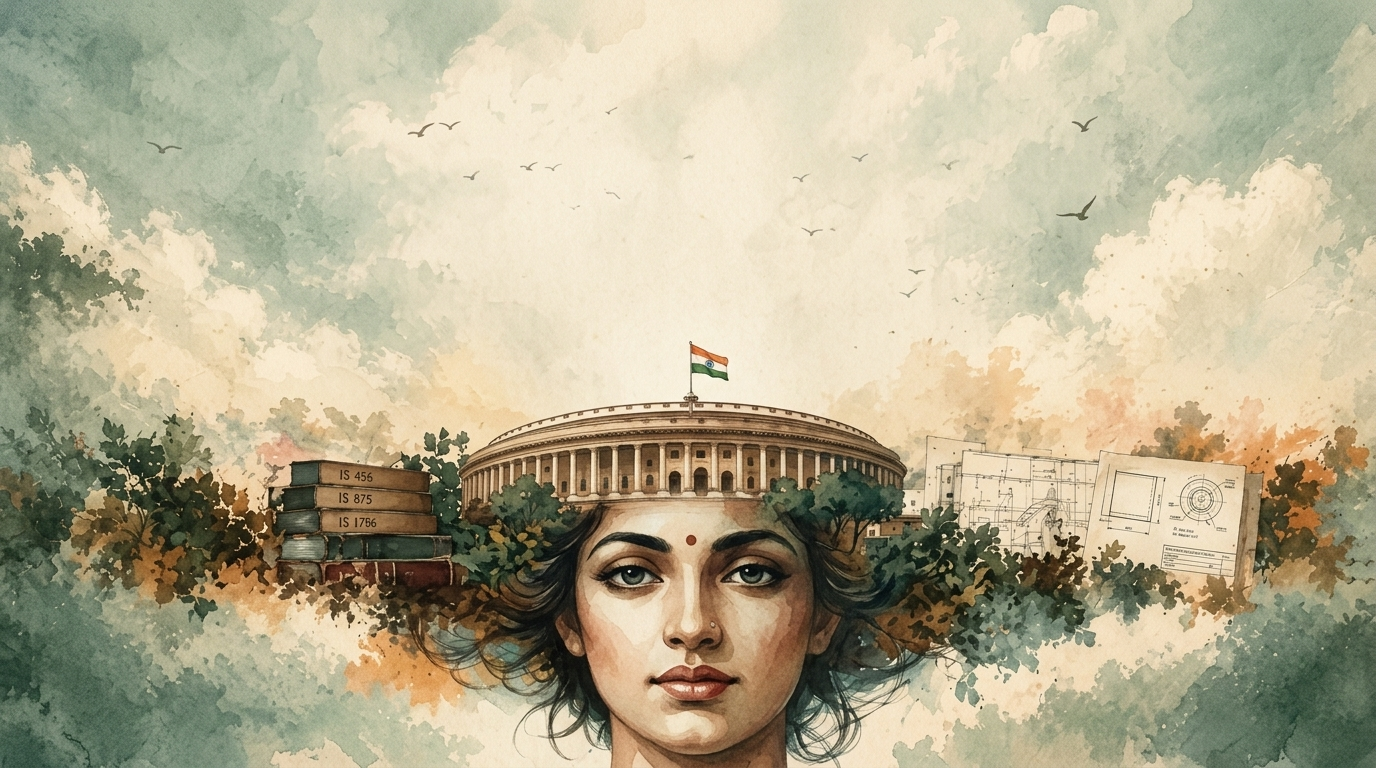
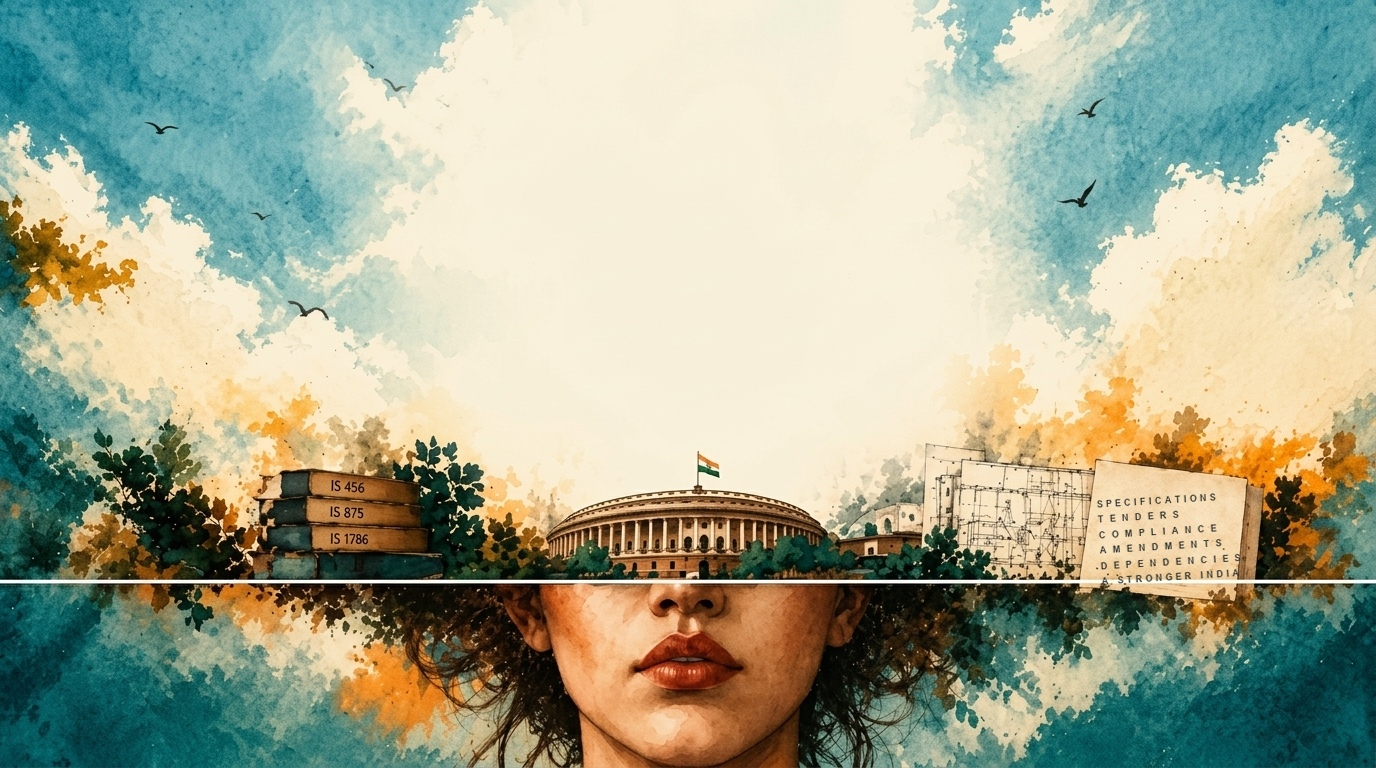
fix(hero): match reference layout, crisp illustration without fog, 2-row categories, and two-tone headline

diff --git a/apps/frontend/src/components/home/HeroSection.tsx b/apps/frontend/src/components/home/HeroSection.tsx
@@ -37,36 +37,20 @@ export const HeroSection: React.FC<HeroSectionProps> = ({ onNavigate, onOpenGuid
       className="relative w-full overflow-x-hidden bg-[#FAF6EE] select-none border-b border-[#8C8275]/25"
       style={{ height: '100svh', minHeight: '700px', maxHeight: '1100px' }}
     >
-      {/* 1. Full-Screen Visual Artwork Background — shifted down seamlessly with dual-layer watercolor blend */}
-      <div className="absolute inset-0 pointer-events-none z-0 overflow-hidden">
-        {/* Base Atmospheric Sky Layer (fills 0 to 100% with continuous watercolor sky) */}
-        <div
-          className="absolute inset-0 bg-cover bg-[center_top] bg-no-repeat"
-          style={{ backgroundImage: `url('/hero_editorial_canvas.jpg')` }}
-        />
-        {/* Main Composition Artwork Layer (shifted down ~135px so Parliament, books & portrait occupy lower-middle & bottom) */}
-        <div
-          className="absolute inset-0 bg-cover bg-[center_top] bg-no-repeat"
-          style={{
-            backgroundImage: `url('/hero_editorial_canvas.jpg')`,
-            top: 'clamp(80px, 14.5svh, 150px)',
-            height: '100%',
-            WebkitMaskImage: 'linear-gradient(to bottom, transparent 0px, black 65px, black 100%)',
-            maskImage: 'linear-gradient(to bottom, transparent 0px, black 65px, black 100%)',
-          }}
-        />
-      </div>
+      {/* 1. Full-Screen Visual Artwork Background — exact reference canvas: crisp, high contrast, fully opaque */}
+      <div
+        className="absolute inset-0 pointer-events-none z-0"
+        style={{
+          backgroundImage: `url('/hero_editorial_canvas.jpg')`,
+          backgroundSize: 'cover',
+          backgroundPosition: 'center 46%',
+          backgroundRepeat: 'no-repeat',
+        }}
+      />
 
-      {/* 2. Natural Paper Texture & Fine Grain Overlay */}
-      <div className="absolute inset-0 bg-[radial-gradient(#8C8275_0.65px,transparent_0.65px)] [background-size:24px_24px] opacity-10 pointer-events-none z-0" />
-
-      {/* 3. Subtle Edge Watercolor Vignette Blend */}
-      <div className="absolute inset-x-0 top-0 h-16 bg-gradient-to-b from-[#EAE4D8]/35 to-transparent pointer-events-none z-0" />
-      <div className="absolute inset-x-0 bottom-0 h-24 bg-gradient-to-t from-[#FAF6EE]/75 via-[#FAF6EE]/20 to-transparent pointer-events-none z-0" />
-
-      {/* Left Flanking Editorial Metadata — positioned on section, ~40% from top */}
-      <div className="absolute left-6 lg:left-12 top-[40%] -translate-y-1/2 hidden xl:block z-20 pointer-events-none">
-        <div className="border-l border-[#8C8275]/45 pl-3 text-[9.5px] tracking-[0.24em] text-[#525B53] font-serif leading-loose uppercase font-medium">
+      {/* Left Flanking Editorial Metadata — solid, fully legible, not translucent */}
+      <div className="absolute left-6 lg:left-12 top-[44%] -translate-y-1/2 hidden xl:block z-20 pointer-events-none">
+        <div className="border-l-2 border-[#1E2320] pl-3 text-[10.5px] tracking-[0.24em] text-[#1E2320] font-serif leading-loose uppercase font-bold">
           <div>{t('pillar_accurate', 'ACCURATE')}</div>
           <div>{t('pillar_compliant', 'COMPLIANT')}</div>
           <div>{t('pillar_transparent', 'TRANSPARENT')}</div>
@@ -74,27 +58,27 @@ export const HeroSection: React.FC<HeroSectionProps> = ({ onNavigate, onOpenGuid
         </div>
       </div>
 
-      {/* Right Flanking Editorial Metadata */}
-      <div className="absolute right-6 lg:right-12 top-[40%] -translate-y-1/2 hidden xl:block z-20 text-right pointer-events-none">
-        <div className="border-r border-[#8C8275]/45 pr-3 text-[9.5px] tracking-[0.24em] text-[#525B53] font-serif leading-loose uppercase font-medium">
-          <div>GFR 144(I)</div>
+      {/* Right Flanking Editorial Metadata — solid, fully legible, not translucent */}
+      <div className="absolute right-6 lg:right-12 top-[44%] -translate-y-1/2 hidden xl:block z-20 text-right pointer-events-none">
+        <div className="border-r-2 border-[#1E2320] pr-3 text-[10.5px] tracking-[0.24em] text-[#1E2320] font-serif leading-loose uppercase font-bold">
+          <div>GFR 144(1)</div>
           <div>BIS ACT 2016</div>
           <div>DPIIT QCOS</div>
           <div>CVC / CAG</div>
         </div>
       </div>
 
-      {/* Bottom Left Corner Signature — positioned on section */}
-      <div className="absolute bottom-4 left-6 lg:left-12 z-20 pointer-events-none hidden sm:block">
-        <div className="border-l border-[#8C8275]/45 pl-3 text-[9.5px] md:text-[10px] tracking-[0.24em] text-[#525B53] font-serif leading-relaxed uppercase font-medium">
-          <div>{t('sub_gov', 'BUILT FOR GOVERNMENT AND PSUS')}</div>
+      {/* Bottom Left Corner Signature — solid, legible small caps with divider pipe */}
+      <div className="absolute bottom-5 left-6 lg:left-12 z-20 pointer-events-none hidden sm:block">
+        <div className="text-[11px] tracking-[0.24em] text-[#FAF6EE] font-serif leading-relaxed uppercase font-bold drop-shadow-[0_1px_2px_rgba(0,0,0,0.85)]">
+          | {t('sub_gov', 'BUILT FOR GOVERNMENT AND PSUS')}
         </div>
       </div>
 
-      {/* Bottom Right Corner Signature — positioned on section */}
-      <div className="absolute bottom-4 right-6 lg:right-12 z-20 pointer-events-none hidden sm:block">
-        <div className="border-r border-[#8C8275]/45 pr-3 text-[9.5px] md:text-[10px] tracking-[0.24em] text-[#525B53] font-serif leading-relaxed uppercase font-medium text-right">
-          <div>{t('sub_bis', 'POWERED BY INDIAN STANDARDS')}</div>
+      {/* Bottom Right Corner Signature — solid, legible small caps with divider pipe */}
+      <div className="absolute bottom-5 right-6 lg:right-12 z-20 pointer-events-none hidden sm:block">
+        <div className="text-[11px] tracking-[0.24em] text-[#FAF6EE] font-serif leading-relaxed uppercase font-bold text-right drop-shadow-[0_1px_2px_rgba(0,0,0,0.85)]">
+          {t('sub_bis', 'POWERED BY INDIAN STANDARDS')} |
         </div>
       </div>
 
@@ -107,42 +91,42 @@ export const HeroSection: React.FC<HeroSectionProps> = ({ onNavigate, onOpenGuid
             onClick={() => onNavigate('home')}
             className="cursor-pointer flex items-center gap-0.5 tracking-tight group"
           >
-            <span className="text-xl sm:text-2xl lg:text-[1.8rem] font-serif font-semibold text-[#181D1A] group-hover:text-[#2C6E80] transition-colors">
-              NORM<span className="text-[#2C6E80] font-serif font-semibold">VAULT</span>
+            <span className="text-xl sm:text-2xl lg:text-[1.8rem] font-serif font-semibold text-[#181D1A] group-hover:text-[#1B6A78] transition-colors">
+              NORM<span className="text-[#1B6A78] font-serif font-semibold">VAULT</span>
             </span>
           </div>
         </div>
 
         {/* Center Nav Links (Desktop) */}
-        <nav className="hidden md:flex items-center space-x-6 lg:space-x-8 text-[13px] font-serif text-[#3D453E] tracking-normal">
+        <nav className="hidden md:flex items-center space-x-6 lg:space-x-8 text-[13.5px] font-serif text-[#2B332D] tracking-normal">
           <button
             onClick={() => onNavigate('home')}
-            className="text-[#181D1A] font-medium border-b border-[#181D1A] pb-0.5 transition-colors cursor-pointer"
+            className="text-[#141916] font-semibold border-b-2 border-[#141916] pb-0.5 transition-colors cursor-pointer"
           >
             {t('nav_home', 'Home')}
           </button>
           <button
             onClick={() => onNavigate('standards')}
-            className="hover:text-[#181D1A] transition-colors cursor-pointer"
+            className="hover:text-[#141916] transition-colors cursor-pointer"
           >
             {t('nav_standards', 'Standards')}
           </button>
           <button
             onClick={() => onNavigate('analyze')}
-            className="hover:text-[#181D1A] transition-colors cursor-pointer"
+            className="hover:text-[#141916] transition-colors cursor-pointer"
           >
             {t('nav_workspace', 'Workspace')}
           </button>
           <button
             onClick={() => onNavigate('dashboard')}
-            className="hover:text-[#181D1A] transition-colors cursor-pointer"
+            className="hover:text-[#141916] transition-colors cursor-pointer"
           >
             {t('nav_dashboard', 'Dashboard')}
           </button>
           {onOpenGuide && (
             <button
               onClick={onOpenGuide}
-              className="text-[#2C6E80] font-medium hover:text-[#181D1A] transition-colors cursor-pointer flex items-center gap-1.5"
+              className="text-[#1B6A78] font-semibold hover:text-[#141916] transition-colors cursor-pointer flex items-center gap-1.5"
             >
               <Compass size={13} />
               <span>{t('nav_user_guide', 'User Guide')}</span>
@@ -152,8 +136,8 @@ export const HeroSection: React.FC<HeroSectionProps> = ({ onNavigate, onOpenGuid
 
         {/* Top Right Header Text & Mobile Menu Button */}
         <div className="flex items-center gap-3">
-          <div className="hidden sm:block text-right text-[9.5px] md:text-[10px] tracking-[0.24em] text-[#4E564F] uppercase font-serif font-medium leading-tight">
-            <div>{t('brand_tagline', 'STANDARDS FOR A STRONGER INDIA')}</div>
+          <div className="hidden sm:block text-right text-[10.5px] md:text-[11px] tracking-[0.22em] text-[#141916] uppercase font-serif font-bold leading-tight">
+            | {t('brand_tagline', 'STANDARDS FOR A STRONGER INDIA')}
           </div>
 
           <button
@@ -233,30 +217,35 @@ export const HeroSection: React.FC<HeroSectionProps> = ({ onNavigate, onOpenGuid
         </div>
       )}
 
-      {/* Center Editorial Hero Content — positioned high, NOT vertically centered */}
-      <div className="relative z-10 flex flex-col items-center w-full px-4 sm:px-6 lg:px-12 mt-[2vh] sm:mt-[3vh] lg:mt-[2.5vh]">
+      {/* Center Editorial Hero Content — positioned in calm upper-middle sky */}
+      <div className="relative z-10 flex flex-col items-center w-full px-4 sm:px-6 lg:px-12 mt-[2.5vh] sm:mt-[3.5vh] lg:mt-[4vh]">
         <div className="text-center max-w-3xl mx-auto flex flex-col items-center w-full">
           {/* Eyebrow */}
-          <div className="text-[10px] sm:text-[11px] md:text-[12px] font-serif tracking-[0.26em] text-[#4D564E] uppercase mb-2 sm:mb-2.5 font-medium">
+          <div className="text-[10.5px] sm:text-[11px] md:text-[11.5px] font-serif tracking-[0.24em] text-[#1E2320] uppercase mb-2 sm:mb-2.5 font-bold">
             {t('hero_kicker', 'INDIAN STANDARDS. SMARTER PROCUREMENT.')}
           </div>
 
-          {/* Main Headline — slightly smaller than before to match reference proportions */}
-          <h1 className="text-[1.75rem] sm:text-[2.6rem] lg:text-[3.2rem] font-serif font-normal text-[#141916] tracking-tight leading-[1.12] sm:leading-[1.08] mb-3 sm:mb-3.5 max-w-2xl">
-            {t('hero_title', 'From Specifications to the Right Standards.')}
+          {/* Main Headline — split across exactly two lines */}
+          <h1 className="text-[2.2rem] sm:text-[2.9rem] lg:text-[3.5rem] font-serif font-medium tracking-tight leading-[1.08] mb-3 max-w-3xl">
+            <span className="block text-[#141A17]">
+              {t('hero_title_line1', 'From Specifications to the')}
+            </span>
+            <span className="block text-[#1B6A78]">
+              {t('hero_title_line2', 'Right Standards.')}
+            </span>
           </h1>
 
-          {/* Supporting Copy — compact */}
-          <p className="text-[11px] sm:text-[13px] md:text-[14px] text-[#3D453E] leading-[1.6] max-w-[650px] font-serif font-normal text-center mb-4 sm:mb-5">
+          {/* Supporting Copy — tight spacing, centered, max-width so it wraps in 2 lines */}
+          <p className="text-[12.5px] sm:text-[14px] text-[#222824] leading-[1.55] max-w-[640px] font-serif font-normal text-center mb-3.5 sm:mb-4">
             {t('hero_desc', 'An AI-powered recommendation engine that helps government departments and PSUs identify applicable Indian Standards for accurate, compliant and future-ready procurement specifications.')}
           </p>
 
           {/* Search & Category — the primary interactive element per the reference */}
-          <div className="w-full max-w-[760px] z-30 px-2 sm:px-0">
+          <div className="w-full max-w-[860px] z-30 px-2 sm:px-0">
             {/* Search Bar */}
             <form
               onSubmit={handleHeroSearch}
-              className="max-w-[640px] mx-auto relative flex items-center bg-white/90 hover:bg-white border border-[#8C8275]/40 hover:border-[#2C6E80] focus-within:border-[#2C6E80] focus-within:ring-2 focus-within:ring-[#2C6E80]/20 rounded-full shadow-sm transition-all duration-200 overflow-hidden"
+              className="max-w-[640px] mx-auto relative flex items-center bg-white border border-[#7D766A]/70 hover:border-[#1B6A78] focus-within:border-[#1B6A78] focus-within:ring-2 focus-within:ring-[#1B6A78]/25 rounded-full shadow-[0_2px_8px_rgba(0,0,0,0.06)] transition-all duration-200 overflow-hidden"
             >
               <div className="pl-4 pr-2 text-[#4A544C]">
                 <Search size={15} />
@@ -266,71 +255,78 @@ export const HeroSection: React.FC<HeroSectionProps> = ({ onNavigate, onOpenGuid
                 value={heroSearchQuery}
                 onChange={(e) => setHeroSearchQuery(e.target.value)}
                 placeholder={t('hero_search_placeholder', 'Search standard, equipment, or clause (e.g. IS 12615, 3-Phase Motor)...')}
-                className="w-full py-2 sm:py-2.5 text-xs text-[#181D1A] placeholder-[#666D64]/75 bg-transparent focus:outline-none font-sans"
+                className="w-full py-2 sm:py-2.5 text-xs text-[#141916] placeholder-[#666D64] bg-transparent focus:outline-none font-sans"
               />
               <button
                 type="submit"
-                className="mr-1.5 px-3.5 py-1.5 rounded-full bg-[#18201B] hover:bg-[#2C6E80] text-[#FAF7F0] text-[11px] font-sans font-medium transition-colors flex items-center gap-1 cursor-pointer shrink-0"
+                className="mr-1.5 px-4 py-1.5 rounded-full bg-[#141916] hover:bg-[#1B6A78] text-[#FAF7F0] text-[11px] font-sans font-medium transition-colors flex items-center gap-1 cursor-pointer shrink-0"
               >
                 <span>{t('hero_search_btn', 'Search')}</span>
                 <ArrowRight size={12} />
               </button>
             </form>
 
-            {/* Category Chips — compact, 2 rows max */}
-            <div className="flex items-center justify-center gap-1.5 flex-wrap mt-2 sm:mt-2.5 text-xs font-sans">
-              <span className="text-[9px] sm:text-[10px] text-[#555C54] uppercase font-semibold tracking-wider mr-0.5 shrink-0 font-mono">
-                {t('categories_label', 'CATEGORIES:')}
-              </span>
-              <button
-                onClick={() => handleChipClick('ETD')}
-                className="px-2 py-0.5 sm:px-2.5 sm:py-0.5 rounded-full bg-[#E5F0F2]/90 hover:bg-[#E5F0F2] text-[#2C6E80] hover:text-[#18201B] border border-[#2C6E80]/35 transition-all cursor-pointer whitespace-nowrap text-[10px] sm:text-[10.5px] font-medium"
-                title="Electrotechnical Standards (ETD)"
-              >
-                {t('cat_etd', '⚡ Electrotechnical (ETD)')}
-              </button>
-              <button
-                onClick={() => handleChipClick('CED')}
-                className="px-2 py-0.5 sm:px-2.5 sm:py-0.5 rounded-full bg-[#F4EFE5]/90 hover:bg-[#ECE4D6] text-[#4A524A] hover:text-[#18201B] border border-[#8C8275]/35 transition-all cursor-pointer whitespace-nowrap text-[10px] sm:text-[10.5px] font-medium"
-                title="Civil & Structural Standards (CED)"
-              >
-                {t('cat_ced', '🏛 Civil & Structural (CED)')}
-              </button>
-              <button
-                onClick={() => handleChipClick('MED')}
-                className="px-2 py-0.5 sm:px-2.5 sm:py-0.5 rounded-full bg-[#F4EFE5]/90 hover:bg-[#ECE4D6] text-[#4A524A] hover:text-[#18201B] border border-[#8C8275]/35 transition-all cursor-pointer whitespace-nowrap text-[10px] sm:text-[10.5px] font-medium"
-                title="Mechanical Engineering Standards (MED)"
-              >
-                {t('cat_med', '⚙ Mechanical (MED)')}
-              </button>
-              <button
-                onClick={() => handleChipClick('MTD')}
-                className="px-2 py-0.5 sm:px-2.5 sm:py-0.5 rounded-full bg-[#F4EFE5]/90 hover:bg-[#ECE4D6] text-[#4A524A] hover:text-[#18201B] border border-[#8C8275]/35 transition-all cursor-pointer whitespace-nowrap text-[10px] sm:text-[10.5px] font-medium"
-                title="Metallurgical & Materials Standards (MTD)"
-              >
-                {t('cat_mtd', '🔬 Metallurgical (MTD)')}
-              </button>
-              <button
-                onClick={() => handleChipClick('ITD')}
-                className="px-2 py-0.5 sm:px-2.5 sm:py-0.5 rounded-full bg-[#F4EFE5]/90 hover:bg-[#ECE4D6] text-[#4A524A] hover:text-[#18201B] border border-[#8C8275]/35 transition-all cursor-pointer whitespace-nowrap text-[10px] sm:text-[10.5px] font-medium"
-                title="Information Technology Standards (ITD)"
-              >
-                {t('cat_itd', '💻 Information Tech (ITD)')}
-              </button>
-              <button
-                onClick={() => handleChipClick('FAD')}
-                className="px-2 py-0.5 sm:px-2.5 sm:py-0.5 rounded-full bg-[#F4EFE5]/90 hover:bg-[#ECE4D6] text-[#4A524A] hover:text-[#18201B] border border-[#8C8275]/35 transition-all cursor-pointer whitespace-nowrap text-[10px] sm:text-[10.5px] font-medium"
-                title="Food and Agriculture Division (FAD)"
-              >
-                {t('cat_fad', '🌾 Food & Agriculture (FAD)')}
-              </button>
-              <button
-                onClick={() => handleChipClick('TXD')}
-                className="px-2 py-0.5 sm:px-2.5 sm:py-0.5 rounded-full bg-[#F4EFE5]/90 hover:bg-[#ECE4D6] text-[#4A524A] hover:text-[#18201B] border border-[#8C8275]/35 transition-all cursor-pointer whitespace-nowrap text-[10px] sm:text-[10.5px] font-medium"
-                title="Textile Division (TXD)"
-              >
-                {t('cat_txd', '🧵 Textiles & Fabrics (TXD)')}
-              </button>
+            {/* Category Chips — arranged neatly in exactly 2 rows (5 pills row 1, 2 pills row 2) */}
+            <div className="flex flex-col items-center gap-1.5 mt-2.5 text-xs font-sans">
+              {/* Row 1: CATEGORIES: + 5 Pills */}
+              <div className="flex items-center justify-center gap-1.5 flex-wrap sm:flex-nowrap">
+                <span className="text-[9.5px] sm:text-[10px] text-[#3D453E] uppercase font-bold tracking-wider mr-1 shrink-0 font-mono">
+                  {t('categories_label', 'CATEGORIES:')}
+                </span>
+                <button
+                  onClick={() => handleChipClick('ETD')}
+                  className="px-2.5 py-0.5 sm:py-1 rounded-full bg-[#E5F0F2] hover:bg-[#D5E8EC] text-[#1B6A78] hover:text-[#141916] border border-[#1B6A78]/40 transition-all cursor-pointer whitespace-nowrap text-[10.5px] sm:text-[11px] font-medium shadow-2xs"
+                  title="Electrotechnical Standards (ETD)"
+                >
+                  {t('cat_etd', '⚡ Electrotechnical (ETD)')}
+                </button>
+                <button
+                  onClick={() => handleChipClick('CED')}
+                  className="px-2.5 py-0.5 sm:py-1 rounded-full bg-[#FAF5EB] hover:bg-[#F0E8D6] text-[#3D453E] hover:text-[#141916] border border-[#8C8275]/40 transition-all cursor-pointer whitespace-nowrap text-[10.5px] sm:text-[11px] font-medium shadow-2xs"
+                  title="Civil & Structural Standards (CED)"
+                >
+                  {t('cat_ced', '🏛 Civil & Structural (CED)')}
+                </button>
+                <button
+                  onClick={() => handleChipClick('MED')}
+                  className="px-2.5 py-0.5 sm:py-1 rounded-full bg-[#FAF5EB] hover:bg-[#F0E8D6] text-[#3D453E] hover:text-[#141916] border border-[#8C8275]/40 transition-all cursor-pointer whitespace-nowrap text-[10.5px] sm:text-[11px] font-medium shadow-2xs"
+                  title="Mechanical Engineering Standards (MED)"
+                >
+                  {t('cat_med', '⚙ Mechanical (MED)')}
+                </button>
+                <button
+                  onClick={() => handleChipClick('MTD')}
+                  className="px-2.5 py-0.5 sm:py-1 rounded-full bg-[#FAF5EB] hover:bg-[#F0E8D6] text-[#3D453E] hover:text-[#141916] border border-[#8C8275]/40 transition-all cursor-pointer whitespace-nowrap text-[10.5px] sm:text-[11px] font-medium shadow-2xs"
+                  title="Metallurgical & Materials Standards (MTD)"
+                >
+                  {t('cat_mtd', '🔬 Metallurgical (MTD)')}
+                </button>
+                <button
+                  onClick={() => handleChipClick('ITD')}
+                  className="px-2.5 py-0.5 sm:py-1 rounded-full bg-[#FAF5EB] hover:bg-[#F0E8D6] text-[#3D453E] hover:text-[#141916] border border-[#8C8275]/40 transition-all cursor-pointer whitespace-nowrap text-[10.5px] sm:text-[11px] font-medium shadow-2xs"
+                  title="Information Technology Standards (ITD)"
+                >
+                  {t('cat_itd', '💻 Information Tech (ITD)')}
+                </button>
+              </div>
+
+              {/* Row 2: 2 Pills */}
+              <div className="flex items-center justify-center gap-1.5 flex-wrap">
+                <button
+                  onClick={() => handleChipClick('FAD')}
+                  className="px-2.5 py-0.5 sm:py-1 rounded-full bg-[#FAF5EB] hover:bg-[#F0E8D6] text-[#3D453E] hover:text-[#141916] border border-[#8C8275]/40 transition-all cursor-pointer whitespace-nowrap text-[10.5px] sm:text-[11px] font-medium shadow-2xs"
+                  title="Food and Agriculture Division (FAD)"
+                >
+                  {t('cat_fad', '🌾 Food & Agriculture (FAD)')}
+                </button>
+                <button
+                  onClick={() => handleChipClick('TXD')}
+                  className="px-2.5 py-0.5 sm:py-1 rounded-full bg-[#FAF5EB] hover:bg-[#F0E8D6] text-[#3D453E] hover:text-[#141916] border border-[#8C8275]/40 transition-all cursor-pointer whitespace-nowrap text-[10.5px] sm:text-[11px] font-medium shadow-2xs"
+                  title="Textile Division (TXD)"
+                >
+                  {t('cat_txd', '🧵 Textiles & Fabrics (TXD)')}
+                </button>
+              </div>
             </div>
           </div>
         </div>
